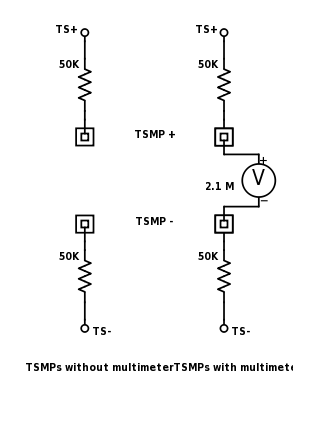
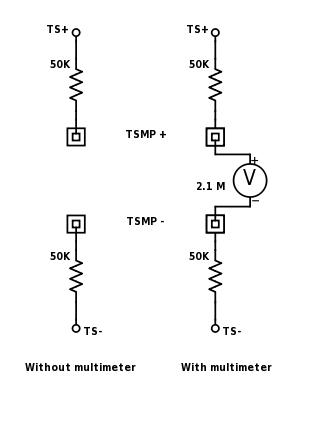
Improved image

diff --git a/esf_main.tex b/esf_main.tex
@@ -446,7 +446,7 @@ The TSAL will be mounted to the underside of the highest point of the main roll 
 
 %Need to add rendering here
 TODO
-\begin{figure}[h]
+\begin{figure}[H]
 \centering
 \includegraphics[scale=1]{img_not_found.jpg}
 \caption{CAD rendering of TSAL position}
@@ -461,14 +461,14 @@ The TSMPs and GLVS ground measurement points are located on the master switch pa
 \subsubsection{Wiring, connectors, cables}
 %Describe wiring, show schematics, and describe connectors and cables used and show useful data regarding the wiring.  Include details on the protection resistor including resistance, voltage and power rating.
 
-\begin{figure}[h]
+\begin{figure}[H]
 \centering
-\includegraphics[scale=1]{TSMP-Schematic.png}
+\includegraphics[scale=0.5]{TSMP-Schematic.png}
 \caption{Schematic of TSMP wiring, illustrating the circuit with and without the multimeter, showing the protection resistors and the approximate expected resistance of the multimeter.}
 \label{fig:TSMP_schematic}
 \end{figure}
 
-There are three measurement points: TS+, TS_, and GLVS chassis ground. The TSMP connections will protected with 50k$\Omega$ current-limiting resistors. These resistors limit the maximum fault current (a short circuit between the measurement points) to below 0.01A, which is below the level that is harmful to a human.
+There are three measurement points: TS+, TS-, and GLVS chassis ground. The TSMP connections will protected with 50k$\Omega$ current-limiting resistors. These resistors limit the maximum fault current (a short circuit between the measurement points) to below 0.01A, which is below the level that is harmful to a human.
 
 \begin{align*}
 V = I * R \\
